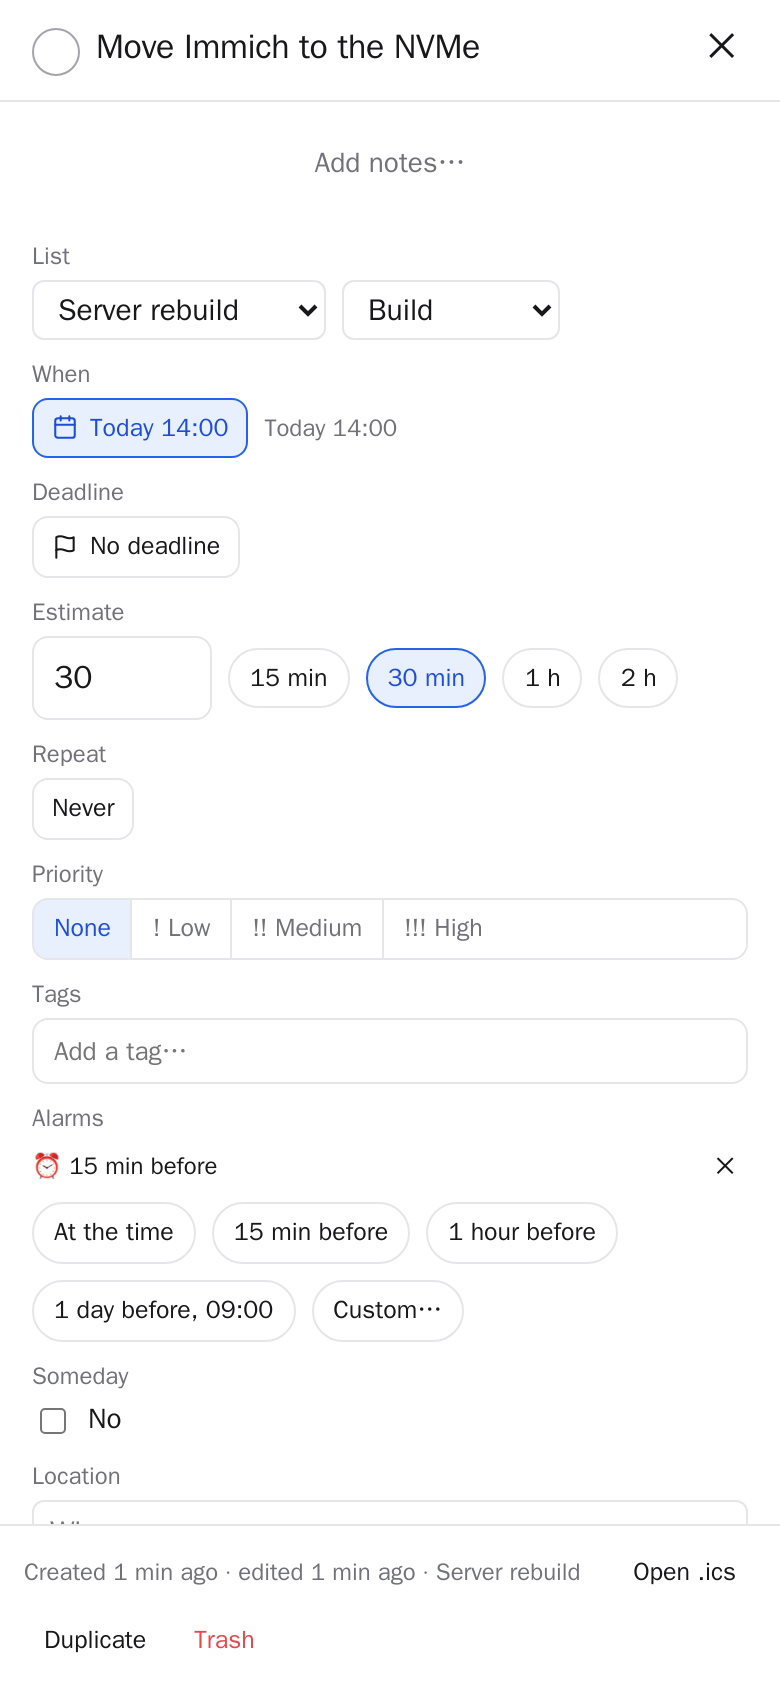
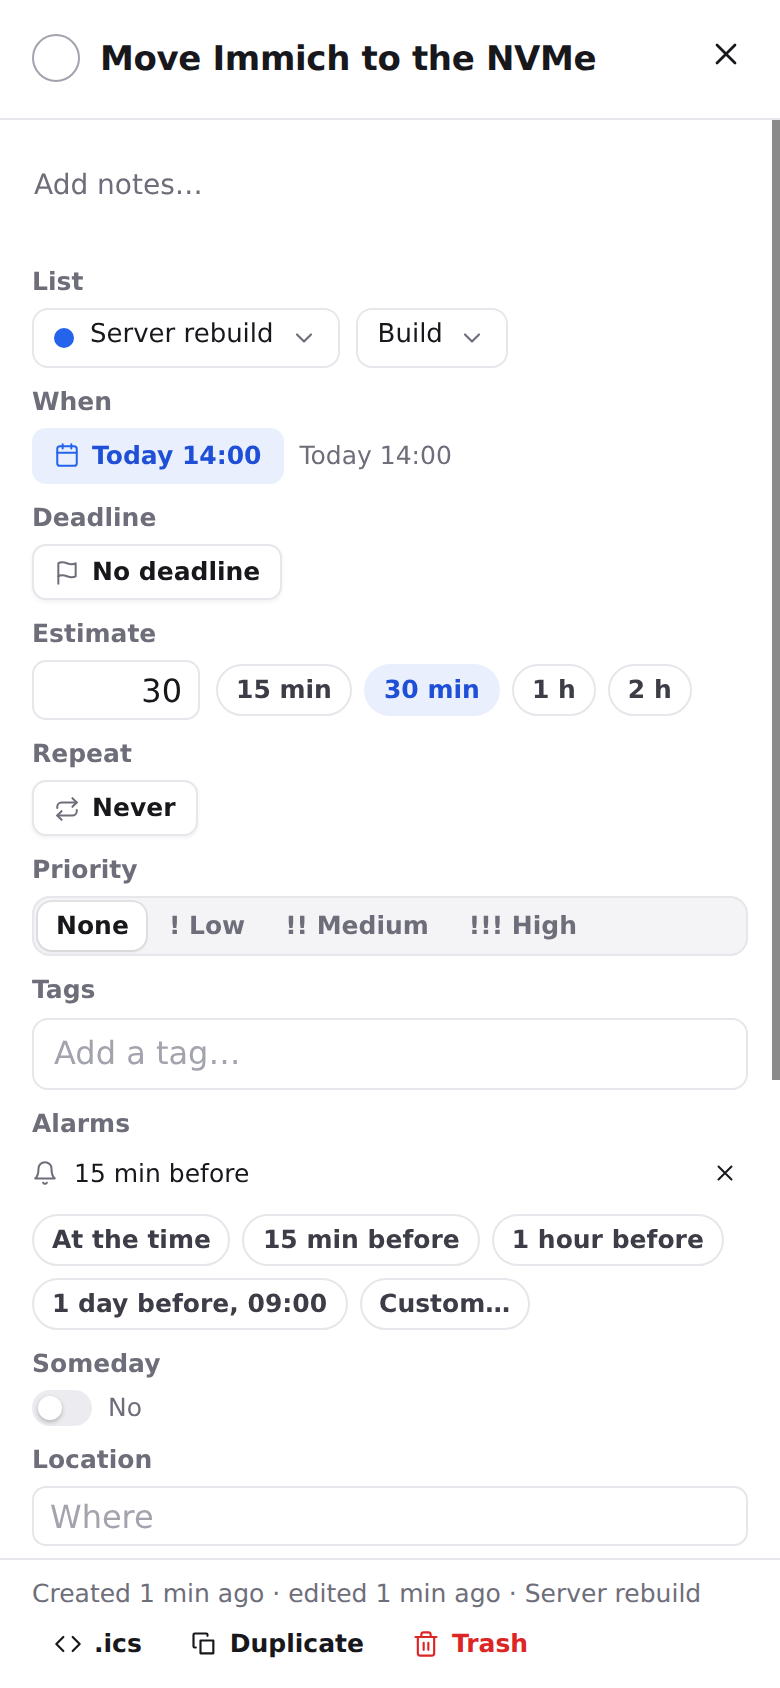
README screenshots of the new design; screenshot script follows the new shell

diff --git a/README.md b/README.md
@@ -42,7 +42,7 @@ server, a morning digest, and a calendar every calendar app can show and move ta
 </table>
 
 <p align="center">
-  <img src="docs/screenshots/mobile-today.png" width="260" alt="Today on a phone, with overdue and scheduled tasks and bottom navigation">&nbsp;&nbsp;
+  <img src="docs/screenshots/mobile-today.png" width="260" alt="Today on a phone, with overdue and scheduled tasks, the menu button and the new-task button">&nbsp;&nbsp;
   <img src="docs/screenshots/mobile-task.png" width="260" alt="Task details on a phone, with scheduling, estimate, priority and reminder controls">
 </p>
 
@@ -64,7 +64,10 @@ All screenshots use the built-in demo data. [How to refresh them](docs/screensho
 - Quick add in plain words: `Call the bank tomorrow 9am !high #money /Home every month *30m`.
   The preview shows what was understood before you press Enter.
 - Keyboard-driven: `n` new, `/` quick add, `⌘K` find, `t` today, `d` deadline, `1 2 3` priority,
-  `s` someday, `m` move, Space done, multi-select with a batch bar, drag to reorder or move.
+  `s` someday, `m` move, Space done, `⌘⇧N` new task anywhere, `[` sidebar, `?` all shortcuts;
+  multi-select with a batch bar, drag to reorder or move.
+- Light and dark themes that follow the system (or set either from the avatar menu); a sidebar that
+  becomes a drawer on phones, with a new-task button at the bottom.
 - Full-text search (SQLite FTS5, accents folded), trash with restore, an activity log per task.
 
 **A real CalDAV server**
